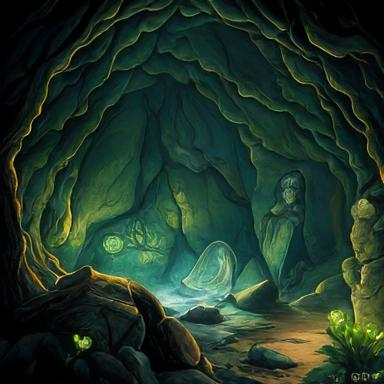
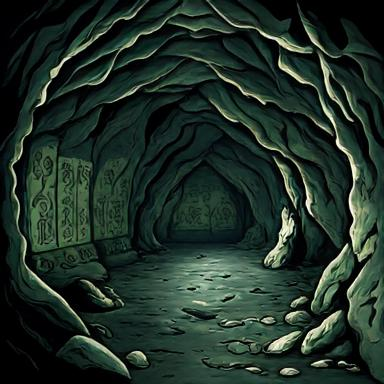
Initial commit

diff --git a/src/frontend.py b/src/frontend.py
@@ -25,7 +25,7 @@ class WandererGameUI:
         self.chat_frame = tk.Frame(self.root)
         self.chat_frame.pack(pady=5, fill=tk.BOTH, expand=True)
 
-        self.chat_text = Text(self.chat_frame, wrap=tk.WORD, height=10, state=tk.DISABLED)
+        self.chat_text = Text(self.chat_frame, wrap=tk.WORD, height=8, state=tk.DISABLED)
         self.chat_text.pack(side=tk.LEFT, fill=tk.BOTH, expand=True)
 
         self.chat_scroll = Scrollbar(self.chat_frame, command=self.chat_text.yview)
@@ -45,9 +45,10 @@ class WandererGameUI:
 
         # === Example Usage ===
         self.update_chat("Game started. Welcome to The Wanderer game!")
-        self.load_image()
         self.game_ctrl = TheWandererGame()
-        self.update_chat(f"Environment description: {self.game_ctrl.get_env_desc()}")
+        env_desc = self.game_ctrl.generate_env_desc()
+        self.load_image()
+        self.update_chat(f"Environment description: {env_desc}")
         self.update_chat(f"'{self.game_ctrl.generate_entity_exchange()}'")
 
     def update_chat(self, message):

diff --git a/src/game_backend.py b/src/game_backend.py
@@ -21,7 +21,7 @@ class TheWandererGame:
         self.helpful_entity = 'helpful bird'  # Main talking entity that is helping the wanderer
         self.exchange_conv = []  # Holds the entire conversation history of the current level
 
-    def get_env_desc(self):
+    def generate_env_desc(self):
         """ Called one time after initialization to generate the first level area.
          Otherwise, update_env_desc should be used.
 
@@ -198,7 +198,7 @@ class TheWandererGame:
 if __name__ == '__main__':
     game_ctrl = TheWandererGame()
     # game_ctrl.generate_wanderer_img()
-    print(game_ctrl.get_env_desc())
+    print(game_ctrl.generate_env_desc())
     # game_ctrl.generate_env_img()
     print(game_ctrl.generate_entity_exchange())
     while 1:

diff --git a/src/llm_backend.py b/src/llm_backend.py
@@ -96,7 +96,7 @@ class MultimodalLlm:
     @torch.inference_mode()
     def generate_image(self,
                        description: str,
-                       temperature: float = 1,
+                       temperature: float = 0.00001,
                        parallel_size: int = 1,
                        cfg_weight: float = CFG_WEIGHT_IMG,
                        image_token_num_per_image: int = 576,

diff --git a/configs/config.py b/configs/config.py
@@ -13,8 +13,8 @@ ENV_IMG_PATH = BASE_DIR / "images" / "env.jpg"
 FINAL_IMG_PATH = BASE_DIR / "images" / "final.png" #Final image to be shown on the GUI
 
 """LLM Text GEN"""
-TEXT_GEN_MAX_TOKENS = 1024
-CFG_WEIGHT_IMG = 7
+TEXT_GEN_MAX_TOKENS = 512
+CFG_WEIGHT_IMG = 5
 
 if __name__ == '__main__':
     print(MODEL_PATH.parent)

diff --git a/README.md b/README.md
@@ -3,8 +3,8 @@ The Wanderer is a single-player adventure game where players explore foreign lan
 
 **The game leverages DeepSeek's Janus-Pro 7B LLM for generating dynamic narratives and interactions.**
 
-![snapshot.png](snapshot.png)
-
+![snapshot_1.png](snapshot_1.png)
+![snapshot_2.png](snapshot_2.png)
 ## To Run
 > Tested with Python 3.10.16
 
@@ -58,7 +58,7 @@ Each new level logically follows from the previous one, adapting to the user's i
 
 ---
 
-### Poetry: The Wanderer’s Path
+### Who is the wanderer?
 
 Alone he walks, a fleeting shade,
 Through lands unknown, through light and fade.
